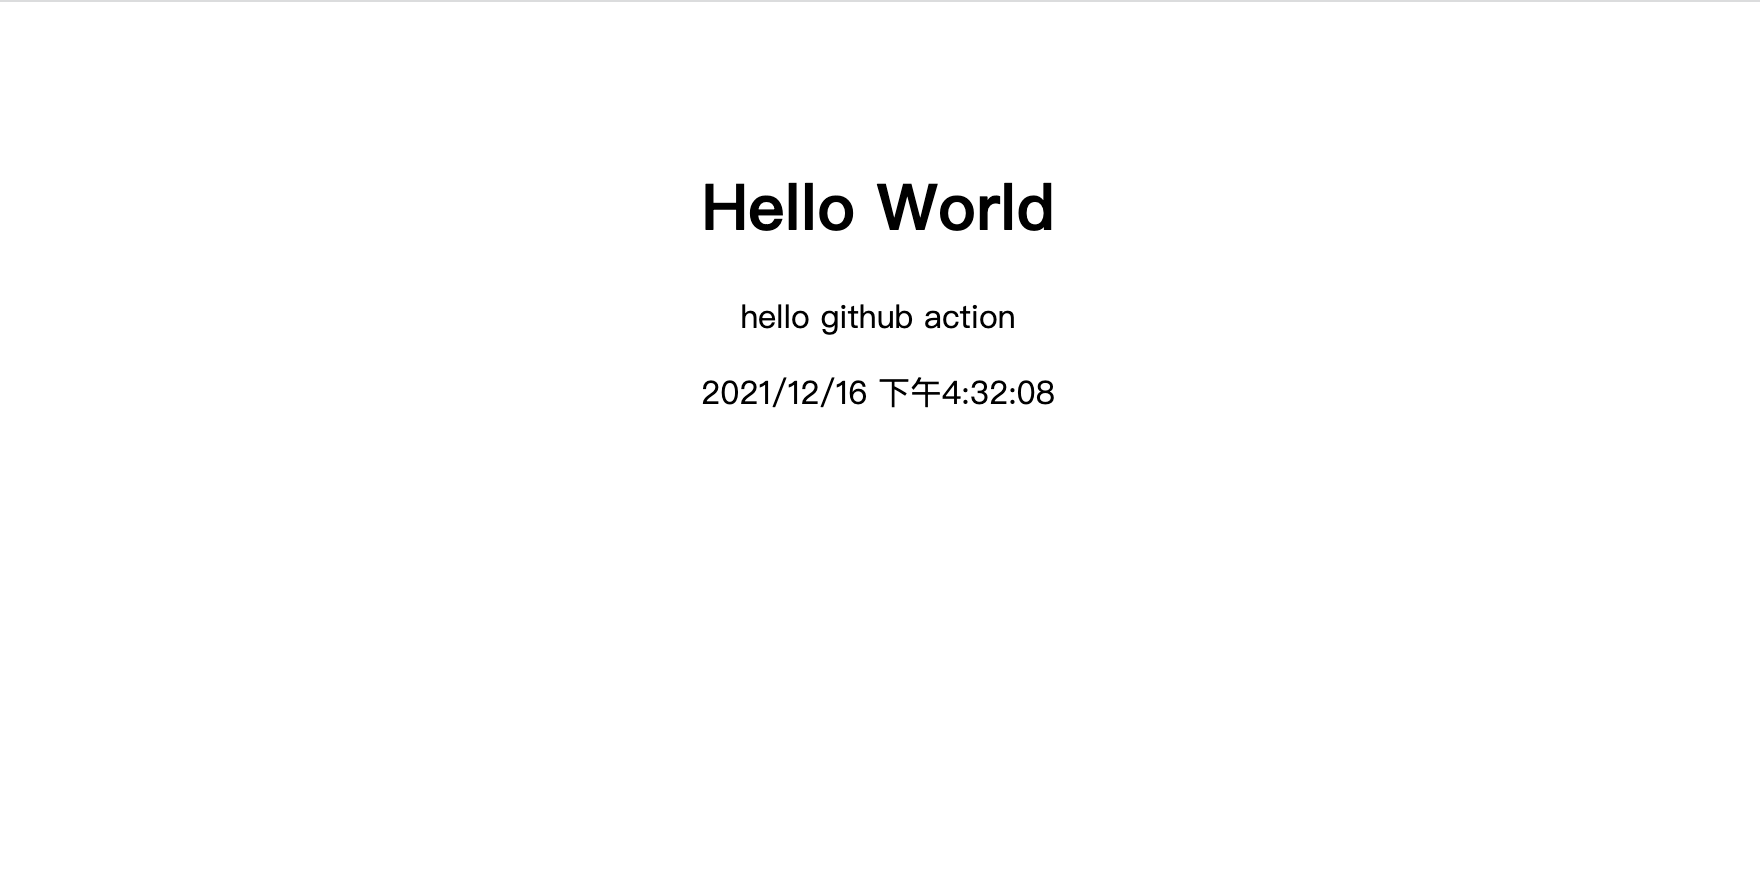
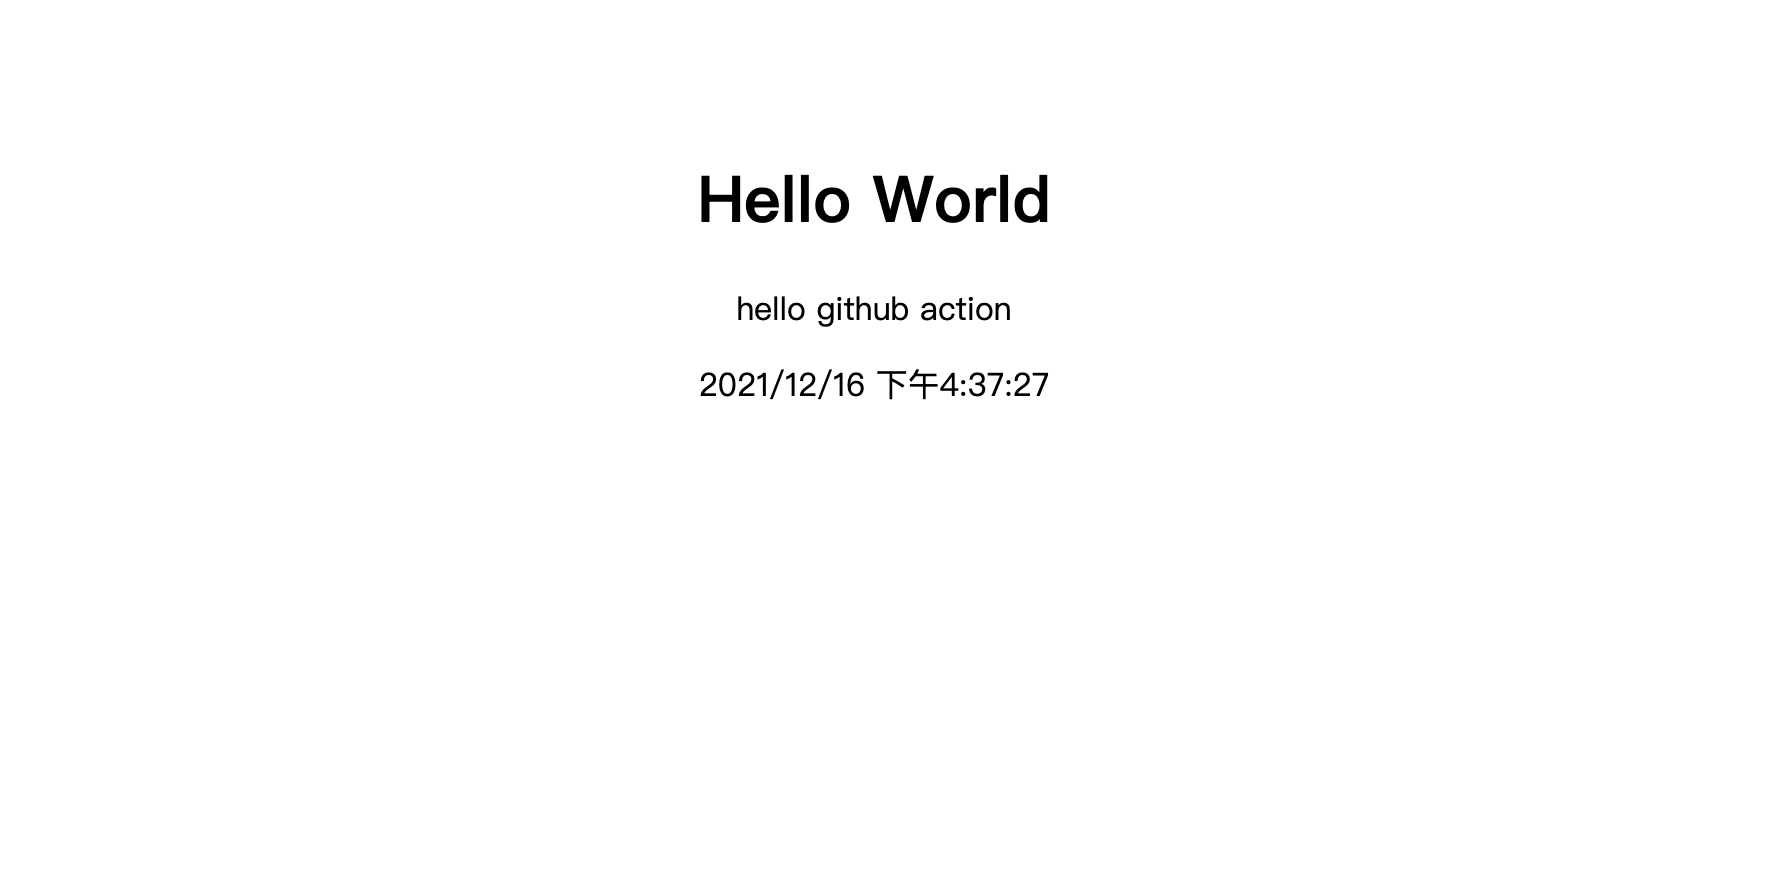
添加截图

Changed region(s): [[0.375, 0.1849, 0.625, 0.2774], [0.375, 0.339, 0.5938, 0.4623]]

diff --git a/blog/2021-12-16-github-action.md b/blog/2021-12-16-github-action.md
@@ -309,6 +309,10 @@ secrets 的命名必须满足以下规则：
 
 :::
 
-创建完成 secrets 后，回到项目 action 视图，选择点击刚刚发布失败的日志，右上角有一个 `Re-run all jobs`，点击后重新运行工作流，待工作流运行完成后，我们启动服务器的静态资源托管服务即可查看我们项目的页面了
+创建完成 secrets 后，回到项目 action 视图，选择点击刚刚发布失败的日志，右上角有一个 `Re-run all jobs`，点击后重新运行工作流。
+
+![](img/2021-12-16-github-action/20211216_16-36-20.png)
+
+待工作流运行完成后，我们启动服务器的静态资源托管服务即可查看我们项目的页面了
 
 ![](img/2021-12-16-github-action/20211216_16-32-16.png)
